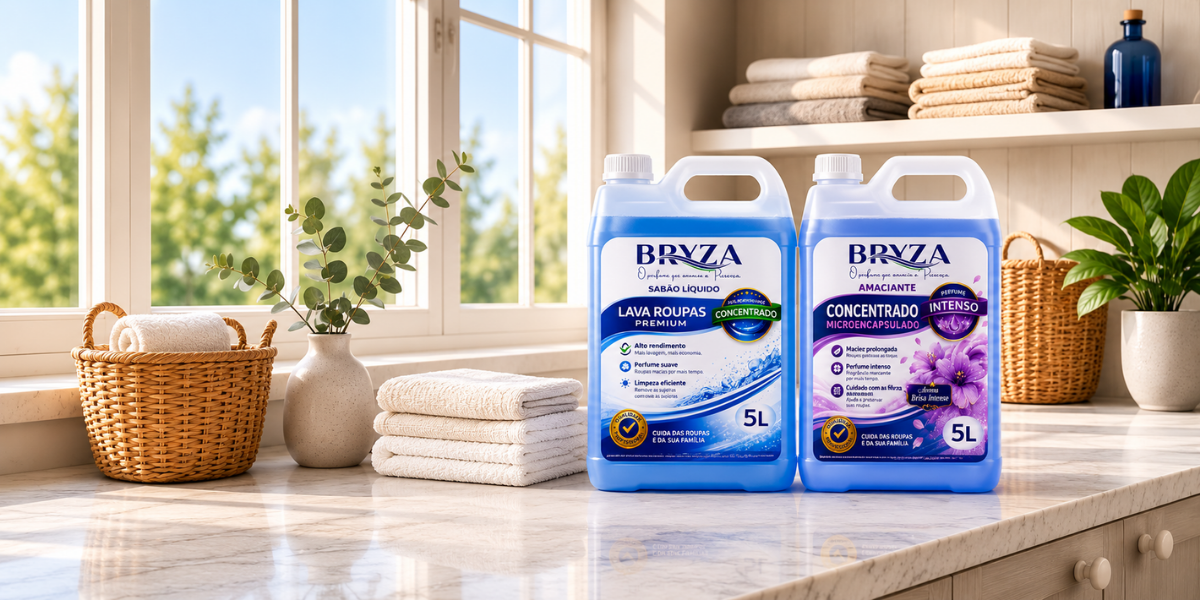
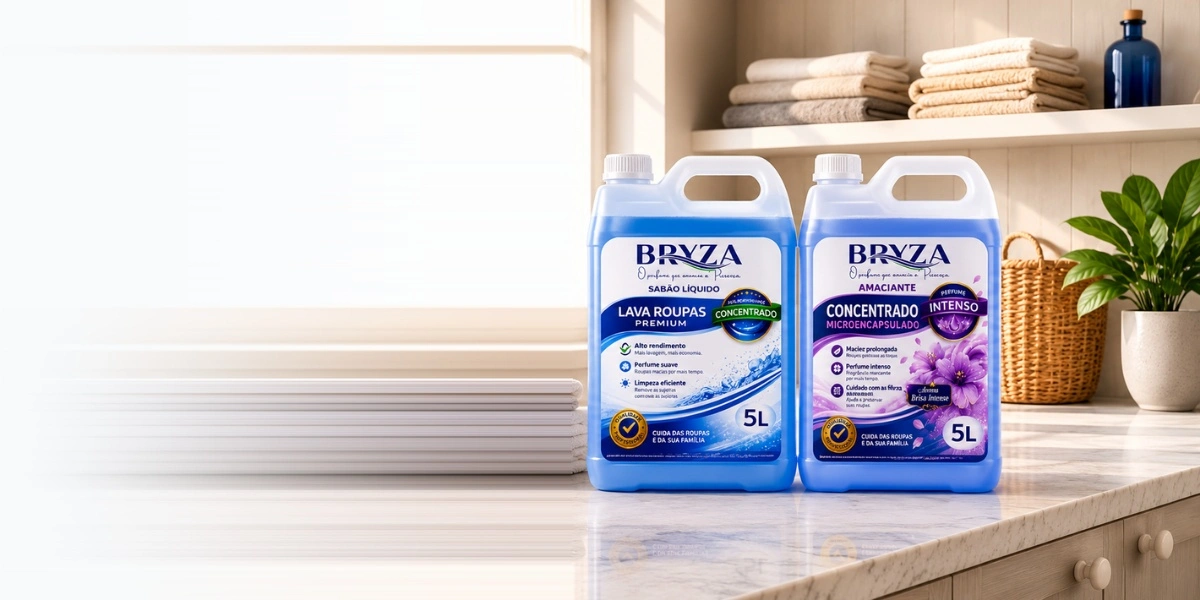
style: remover texto sobreposto da imagem do hero e adicionar card glassmorphism para legibilidade perfeita

diff --git a/src/components/public/LandingPage.tsx b/src/components/public/LandingPage.tsx
@@ -165,32 +165,40 @@ export const LandingPage: React.FC = () => {
           gap: '40px',
           alignItems: 'center'
         }} className="hero-grid">
-          {/* Left Text */}
-          <div>
+          {/* Left Text Box (High Legibility Card) */}
+          <div style={{
+            backgroundColor: 'rgba(255, 255, 255, 0.88)',
+            backdropFilter: 'blur(16px)',
+            WebkitBackdropFilter: 'blur(16px)',
+            borderRadius: '24px',
+            padding: '36px 36px',
+            border: '1px solid rgba(255, 255, 255, 0.9)',
+            boxShadow: '0 12px 40px rgba(0, 43, 92, 0.08)'
+          }}>
             <h1 style={{
-              fontSize: '44px',
+              fontSize: '42px',
               fontWeight: 800,
               color: '#002b5c',
               lineHeight: 1.18,
               letterSpacing: '-0.02em',
-              marginBottom: '20px'
+              marginBottom: '18px'
             }}>
               Produtos que cuidam da sua casa e deixam sua presença.
             </h1>
 
             <p style={{
-              fontSize: '16.5px',
-              color: '#475569',
+              fontSize: '16px',
+              color: '#334155',
               lineHeight: 1.6,
-              marginBottom: '32px',
+              marginBottom: '28px',
               maxWidth: '520px',
-              fontWeight: 400
+              fontWeight: 500
             }}>
               Limpeza eficiente, alto rendimento e perfume marcante para tornar o cuidado com a casa mais leve.
             </p>
 
             {/* CTA Button */}
-            <div style={{ marginBottom: '36px' }}>
+            <div style={{ marginBottom: '32px' }}>
               <a
                 href={evUrl}
                 style={{
@@ -204,7 +212,7 @@ export const LandingPage: React.FC = () => {
                   display: 'inline-flex',
                   alignItems: 'center',
                   gap: '10px',
-                  boxShadow: '0 8px 24px rgba(166, 206, 57, 0.4)',
+                  boxShadow: '0 8px 24px rgba(166, 206, 57, 0.45)',
                   transition: 'transform 0.2s'
                 }}
               >
@@ -217,25 +225,25 @@ export const LandingPage: React.FC = () => {
             <div style={{
               display: 'flex',
               alignItems: 'center',
-              gap: '24px',
+              gap: '20px',
               flexWrap: 'wrap',
-              marginBottom: '14px'
+              marginBottom: '12px'
             }}>
-              <div style={{ display: 'flex', alignItems: 'center', gap: '8px', fontSize: '13.5px', fontWeight: 600, color: '#1e293b' }}>
-                <span className="material-symbols-outlined" style={{ color: '#002b5c', fontSize: '20px' }}>verified_user</span>
+              <div style={{ display: 'flex', alignItems: 'center', gap: '8px', fontSize: '13px', fontWeight: 600, color: '#002b5c' }}>
+                <span className="material-symbols-outlined" style={{ color: '#65a30d', fontSize: '20px' }}>verified_user</span>
                 <span>Pague somente na entrega</span>
               </div>
-              <div style={{ display: 'flex', alignItems: 'center', gap: '8px', fontSize: '13.5px', fontWeight: 600, color: '#1e293b' }}>
-                <span className="material-symbols-outlined" style={{ color: '#002b5c', fontSize: '20px' }}>local_shipping</span>
+              <div style={{ display: 'flex', alignItems: 'center', gap: '8px', fontSize: '13px', fontWeight: 600, color: '#002b5c' }}>
+                <span className="material-symbols-outlined" style={{ color: '#65a30d', fontSize: '20px' }}>local_shipping</span>
                 <span>Frete grátis*</span>
               </div>
-              <div style={{ display: 'flex', alignItems: 'center', gap: '8px', fontSize: '13.5px', fontWeight: 600, color: '#1e293b' }}>
-                <span className="material-symbols-outlined" style={{ color: '#002b5c', fontSize: '20px' }}>groups</span>
+              <div style={{ display: 'flex', alignItems: 'center', gap: '8px', fontSize: '13px', fontWeight: 600, color: '#002b5c' }}>
+                <span className="material-symbols-outlined" style={{ color: '#65a30d', fontSize: '20px' }}>groups</span>
                 <span>Ganhe indicando nossos produtos</span>
               </div>
             </div>
 
-            <p style={{ fontSize: '11.5px', color: '#94a3b8', margin: 0 }}>
+            <p style={{ fontSize: '11px', color: '#64748b', margin: 0, fontWeight: 500 }}>
               *Consulte regiões e condições no momento do pedido.
             </p>
           </div>